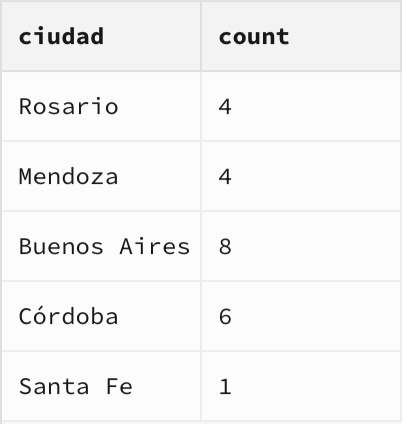
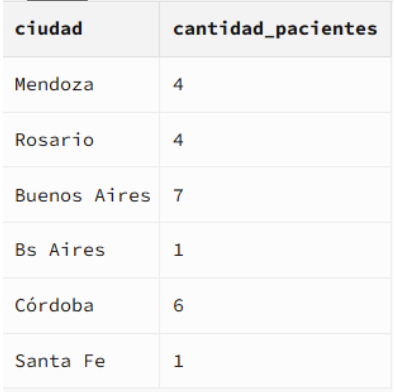
Ultimas modificaciones para la entrega

diff --git a/InfoMed_TP4_Lew_Bereterbide.md b/InfoMed_TP4_Lew_Bereterbide.md
@@ -108,11 +108,13 @@ La base de datos estudiada no está completamente normalizada. Si bien en la may
 # Parte 2: SQL
 ## 1. Cuando se realizan consultas sobre la tabla paciente agrupando por ciudad los tiempos de respuesta son demasiado largos. Proponer mediante una query SQL una solución a este problema.
 ```sql
-SELECT ciudad, COUNT(*)
-FROM Pacientes
+CREATE INDEX idx_ciudad ON Pacientes(ciudad);
+SELECT ciudad, COUNT(id_paciente) AS Cantidad_pacientes
+FROM Pacientes 
 GROUP BY ciudad;
 ```
 Salida:
+
 ![Resultados 01](images/01_resultados.png)
 
 Es correcto que sumen 23 (cantidad de pacientes registrados).
@@ -131,6 +133,7 @@ FROM
 SELECT * FROM Edades_Pacientes
 ```
 Salida:
+
 ![Resultados 02](images/02_resultados.png)
 
 ## 3. La paciente, “Luciana Gómez”, ha cambiado de dirección. Antes vivía en “Avenida Las Heras 121” en “Buenos Aires”, pero ahora vive en “Calle Corrientes 500” en “Buenos Aires”. Actualizar la dirección de este paciente en la base de datos.
@@ -147,6 +150,7 @@ FROM Pacientes
 WHERE nombre = 'Luciana Gómez';
 ```
 Salida:
+
 ![Resultados 03](images/03_resultados.png)
 
 ## 4. Seleccionar el nombre y la matrícula de cada médico cuya especialidad sea identificada por el id 4.
@@ -156,6 +160,7 @@ FROM Medicos
 WHERE especialidad_id = 4;
 ``` 
 Salida:
+
 ![Resultados 04](images/04_resultados.png)
 
 ## 5. Puede pasar que haya inconsistencias en la forma en la que están escritos los nombres de las ciudades, ¿cómo se corrige esto? Agregar la query correspondiente.
@@ -179,6 +184,7 @@ WHERE ciudad IN ('Santa Fe', 'Santa fe', 'Santa Fé', 'Santa fé');
 SELECT DISTINCT ciudad FROM Pacientes;
 ``` 
 Salida:
+
 ![Resultados 05](images/05_resultados.png)
 
 ## 6. Obtener el nombre y la dirección de los pacientes que viven en Buenos Aires.
@@ -188,6 +194,7 @@ FROM Pacientes
 WHERE ciudad = 'Buenos Aires';
 ``` 
 Salida:
+
 ![Resultados 06](images/06_resultados.png)
 
 ## 7. Cantidad de pacientes que viven en cada ciudad.
@@ -198,6 +205,7 @@ FROM Pacientes
 GROUP BY ciudad;
 ``` 
 Salida:
+
 ![Resultados 07](images/07_resultados.png)
 
 Nuevamente, suman 23.
@@ -216,6 +224,7 @@ JOIN SexoBiologico s
 GROUP BY p.ciudad
 ``` 
 Salida:
+
 ![Resultados 08](images/08_resultados.png)
 
 ## 9. Obtener la cantidad de recetas emitidas por cada médico.
@@ -230,6 +239,7 @@ GROUP BY m.id_medico, m.nombre
 ORDER BY total_recetas DESC;
 ``` 
 Salida:
+
 ![Resultados 09](images/09_resultados.png)
 
 ## 10. Obtener todas las consultas médicas realizadas por el médico con ID igual a 3 durante el mes de agosto de 2024.
@@ -248,6 +258,7 @@ WHERE
     AND c.fecha BETWEEN '2024-08-01' AND '2024-08-31'
 ``` 
 Salida:
+
 ![Resultados 10](images/10_resultados.png)
 
 ## 11. Obtener el nombre de los pacientes junto con la fecha y el diagnóstico de todas las consultas médicas realizadas en agosto del 2024.
@@ -261,6 +272,7 @@ JOIN Pacientes p ON c.id_paciente = p.id_paciente
 WHERE c.fecha BETWEEN '2024-08-01' AND '2024-08-31'
 ``` 
 Salida:
+
 ![Resultados 11 1ra parte](images/11_resultados_1.png)
 ![Resultados 11 2da parte](images/11_resultados_2.png)
 
@@ -276,6 +288,7 @@ GROUP BY m.nombre
 HAVING COUNT(*) > 1;
 ``` 
 Salida:
+
 ![Resultados 12](images/12_resultados.png)
 
 ## 13. Obtener el nombre de los pacientes junto con la cantidad total de recetas que han recibido.
@@ -290,6 +303,7 @@ GROUP BY p.id_paciente, p.nombre
 ORDER BY p.id_paciente ASC;
 ``` 
 Salida:
+
 ![Resultados 13](images/13_resultados.png)
 
 ## 14. Obtener el nombre del medicamento más recetado junto con la cantidad de recetas emitidas para ese medicamento.
@@ -303,6 +317,7 @@ GROUP BY m.id_medicamento, m.nombre
 ORDER BY total_medic DESC LIMIT 1;
 ``` 
 Salida:
+
 ![Resultados 14](images/14_resultados.png)
 
 ## 15. Obtener el nombre del paciente junto con la fecha de su última consulta y el diagnóstico asociado.
@@ -323,6 +338,7 @@ WHERE c.fecha = (
 ORDER BY p.id_paciente;
 ``` 
 Salida:
+
 ![Resultados 15](images/15_resultados.png)
 
 ## 16. Obtener el nombre del médico junto con el nombre del paciente y el número total de consultas realizadas por cada médico para cada paciente, ordenado por médico y paciente.
@@ -349,6 +365,7 @@ GROUP BY 1, 2, 3, 4
 ORDER BY C.id_medico ASC, C.id_paciente ASC;
 ``` 
 Salida:
+
 ![Resultados 16](images/16_resultados.png)
 
 Nos parece innecesario mostrar las 53 filas de salida y por lo tanto mostramos estas primeras filas como salida representativa.
@@ -380,6 +397,7 @@ GROUP BY 1, 2, 3, 4, 5, 6
 ORDER BY cantidad_recetas DESC;
 ``` 
 Salida:
+
 ![Resultados 17](images/17_resultados.png)
 
 Al igual que en el ejercicio anterior nos parece innecesario mostrar la salida de las 30 filas.
@@ -396,4 +414,5 @@ GROUP BY m.id_medico, m.nombre
 ORDER BY total_pacientes DESC;
 ``` 
 Salida:
+
 ![Resultados 18](images/18_resultados.png)
